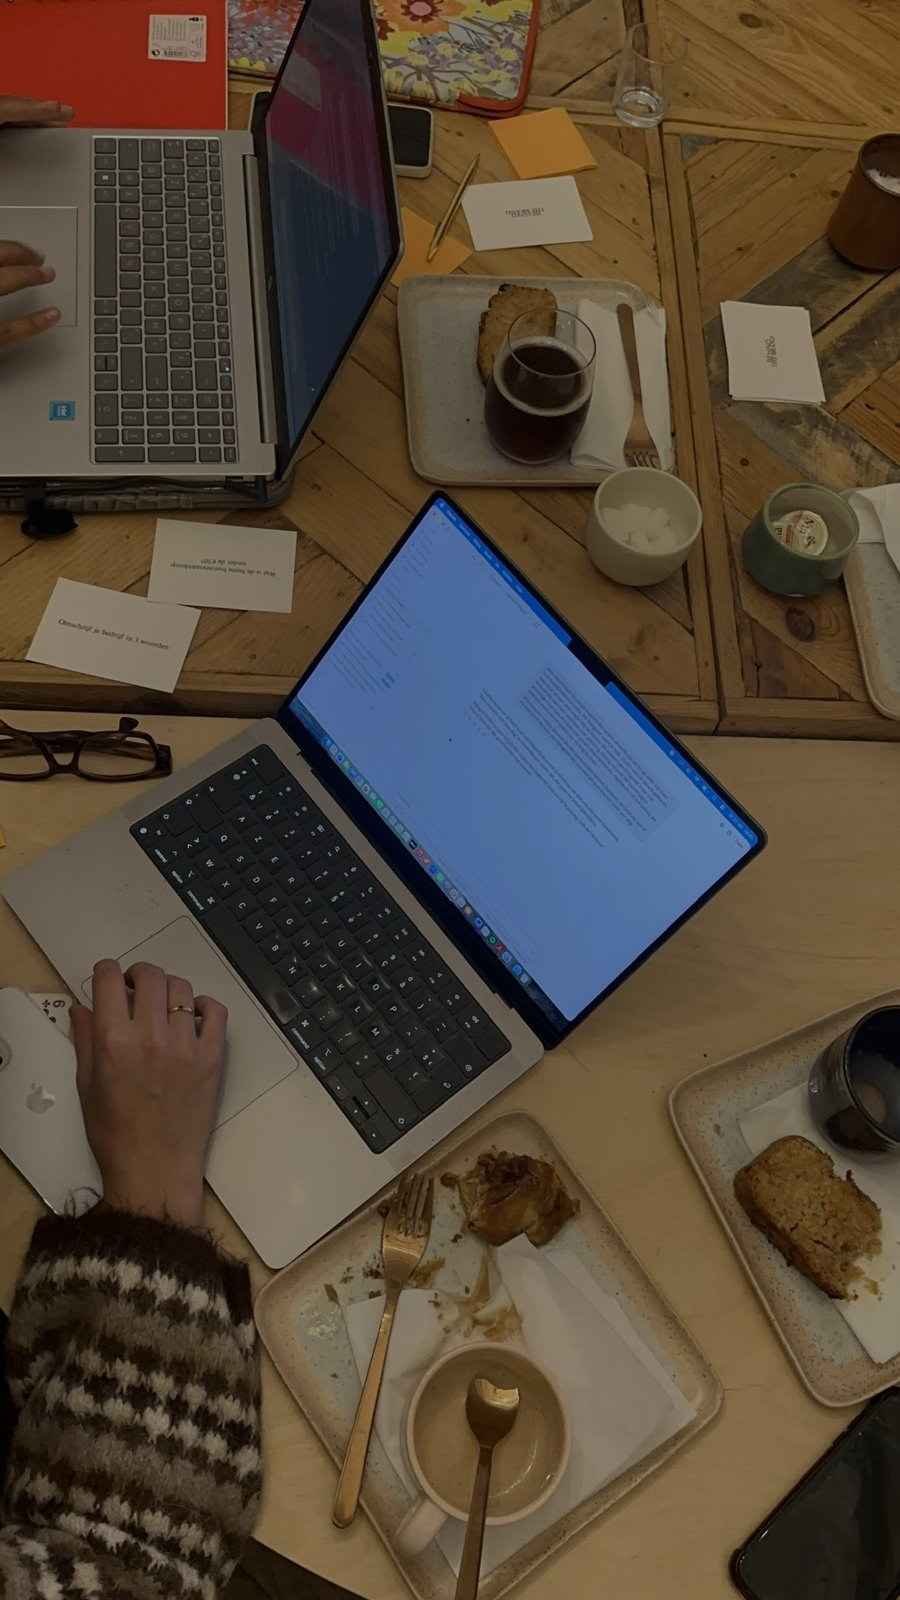
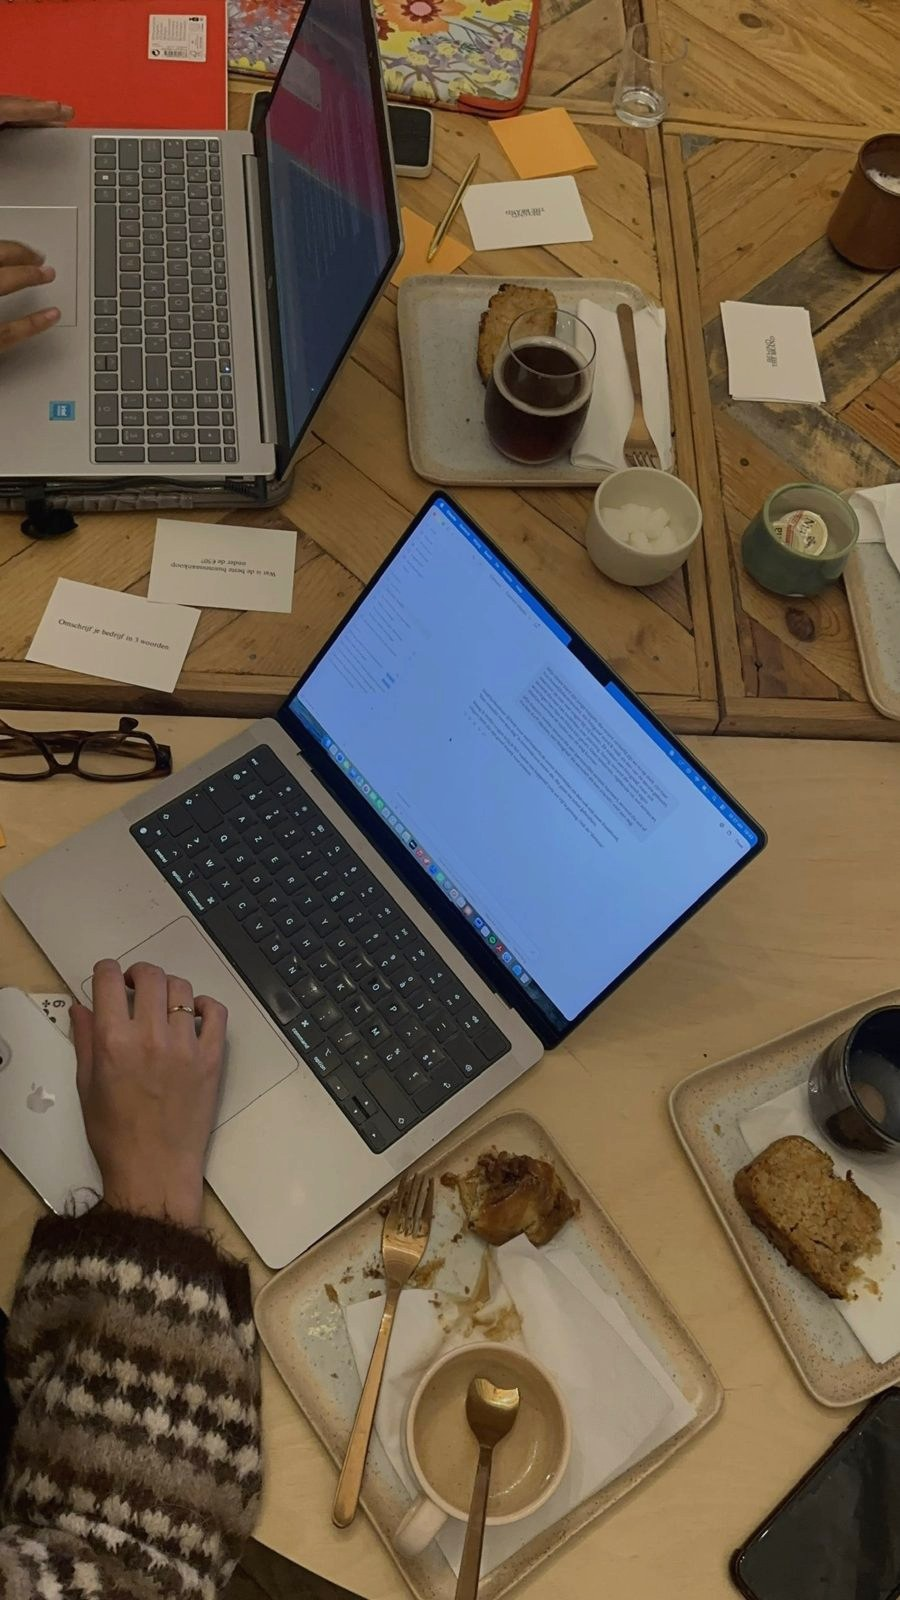
Focus Club: hero weg, zaalfoto lager, laptopfoto lichter
Claude-Session: https://claude.ai/code/session_01Pzp1w4VDSoGFCKZngkYXRs

diff --git a/focusclub/index.html b/focusclub/index.html
@@ -602,25 +602,12 @@
 <body>
 <div class="cc-scope">
 
-  <!-- ============ HERO ============ -->
-  <section class="hero">
-    <img src="media/zaal.jpg" alt="Workshopzaal met op het scherm: Fijn dat je er bent">
-    <div class="hero-in">
-      <h1><span class="l">Slimmer werken,</span> <span class="l"><em>niet harder</em></span></h1>
-      <p class="hero-sub">Een gratis workshop waarin ik je toon hoe jij samenwerkt met AI.</p>
-      <div class="hero-actions">
-        <a class="btn btn-primary" href="#gids">Schrijf je gratis in <span class="arr">→</span></a>
-        <a class="link" href="#gids">Do 14 januari · Starthuis Vilvoorde</a>
-      </div>
-    </div>
-  </section>
-
   <!-- ============ INTRO + FORMULIER ============ -->
   <section class="lp-hero">
     <div class="lp-hero-in">
       <div class="reveal">
-        <h2 class="lp-title">Zo werk jij <em>samen met AI</em></h2>
-        <p class="lp-sub">AI gebruiken om af en toe een tekst te laten schrijven, dat doen veel ondernemers al. Maar wat als AI echt meewerkt in je business? Tijdens deze workshop toon ik je hoe ik elke week samenwerk met AI, en hoe jij zelf begint.</p>
+        <h1 class="lp-title">Slimmer werken, <em>niet harder</em></h1>
+        <p class="lp-sub">Een gratis workshop waarin ik je toon hoe jij samenwerkt met AI. Want AI gebruiken om af en toe een tekst te laten schrijven, dat doen veel ondernemers al. Maar wat als AI echt meewerkt in je business? Ik laat je zien hoe ik dat elke week doe, en hoe jij zelf begint.</p>
         <dl class="fc-meta">
           <div><dt>Wanneer</dt><dd>Donderdag 14 januari 2027<br>18u tot 19u30</dd></div>
           <div><dt>Waar</dt><dd>Starthuis<br>Leuvensestraat 29, Vilvoorde</dd></div>
@@ -695,6 +682,8 @@
       <div class="lp-center"><a class="btn btn-primary" href="#gids">Ja, ik kom <span class="arr">→</span></a></div>
     </div>
   </section>
+
+  <div class="straddle s-in"><div class="wrap"><figure class="band-photo reveal-img"><img src="media/zaal.jpg" alt="Workshopzaal met op het scherm: Welkom, fijn dat je er bent" style="object-position: center 40%;"></figure></div></div>
 
   <!-- ============ OVER MIJ ============ -->
   <section class="section ivoor">
